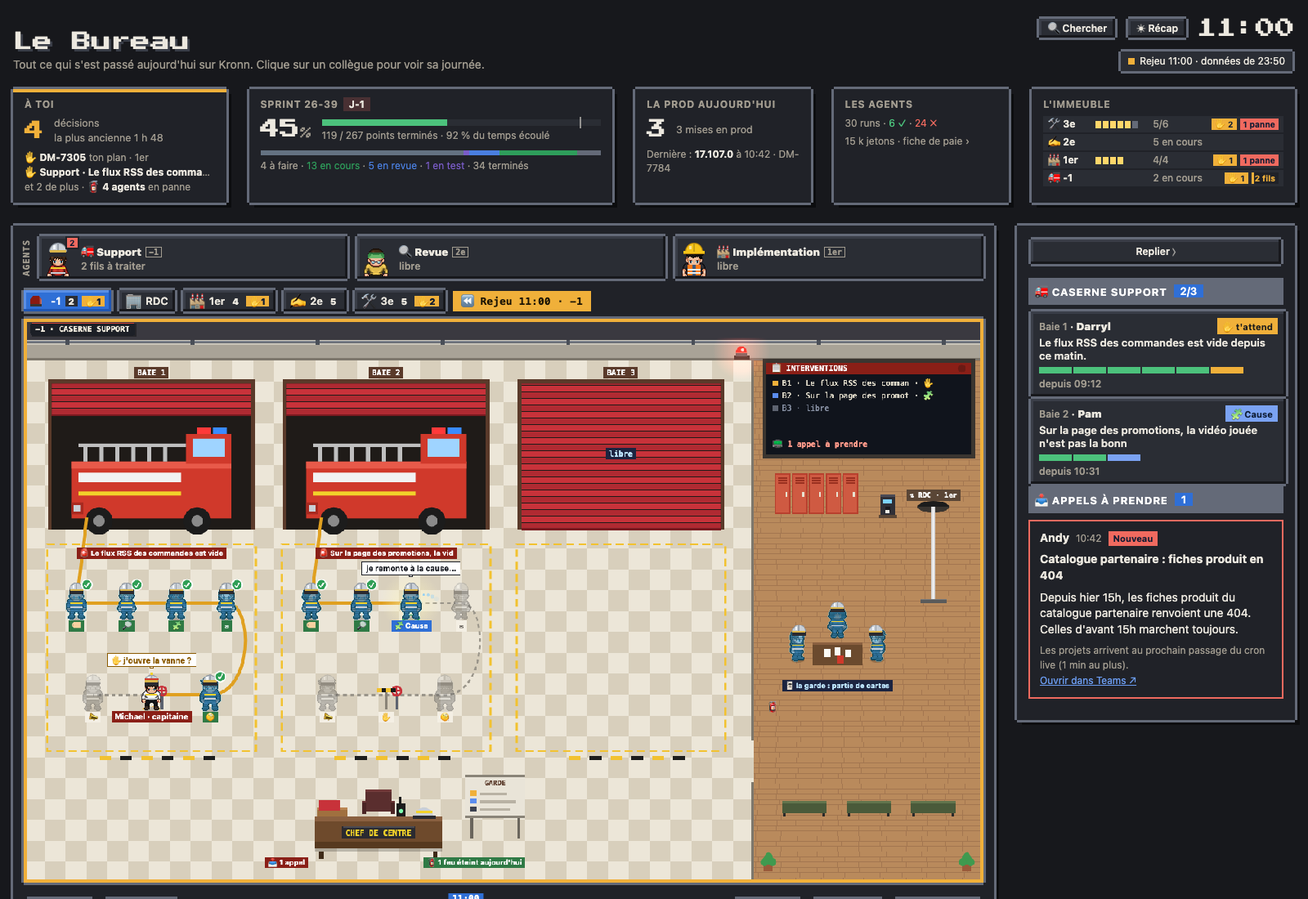
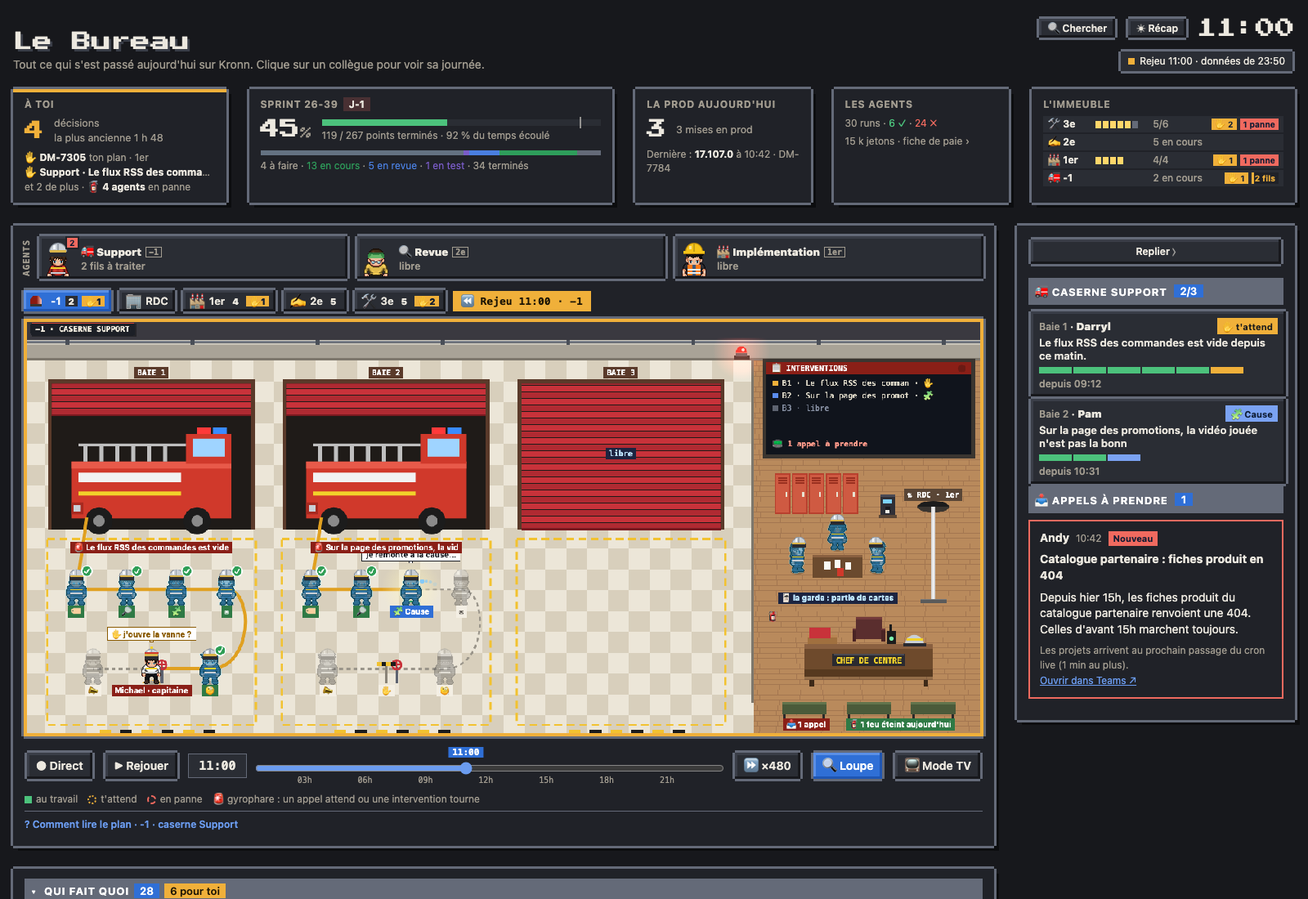
feat(caserne): le -1 sur 20 rangées, le chef de centre dans la salle de garde
Refonte des étages en une rangée (maquette validée) : le -1 passe de 27 à
20 rangées (AT_ROWS[-1]) pour tenir à l'écran. Les zones peintes, les deux
rangs de pompiers et l'allée sous les baies remontent et se resserrent ;
le fond et la nuit suivent la nouvelle hauteur.

Le bureau du chef de centre quitte le carrelage pour la salle de garde,
centré sur le parquet, entre la partie de cartes (remontée sous les
casiers) et les lits de camp ; ses étiquettes restent sous lui. Le tableau
de garde sur pied disparaît. Pour ne traverser ni le bureau ni les lits,
les pompiers longent le mur de droite entre la barre et l'allée, le
capitaine et l'agent d'entretien passent par un couloir (csGuardPath).

Base commune des étages : chaque étage déclare sa hauteur en rangées (AT_ROWS, AT_H suit l'étage
affiché), le plan d'un étage tient dans la fenêtre (planFit, --plan-top) et les toiles de travail suivent
sa hauteur. Lisibilité par étage : le -1 et le 2e (20 rangées) s'affichent à ×0,77 à 1440 × 900, donc
12 px minimum, comme au RDC (lisibilite.json, smoke.py, lisibilite.test.js).

Changed region(s): [[0.0, 0.5564, 0.7812, 1.0], [0.6875, 0.5255, 0.7188, 0.5564], [0.5312, 0.5873, 0.5625, 0.6182]]

diff --git a/page/src/68-caserne.js b/page/src/68-caserne.js
@@ -18,17 +18,22 @@ const CS_ST={ok:['ok','a travaillé'],run:['run','au travail'],err:['err','en pa
 // « Comment lire le plan » au -1 (46-legende.js) ; les postes viennent de CS_POSTES
 const CS_HELP={bar:()=>'<span class="lk"><i data-st="work"></i>au travail</span><span class="lk"><i class="ring ring-dot" data-st="gate"></i>t\'attend</span><span class="lk"><i class="ring ring-dash" data-st="error"></i>en panne</span><span>🚨 gyrophare : un appel attend ou une intervention tourne</span>',
   postes:()=>[['',CS_POSTES]],
-  qui:'<p><b>Pompiers</b> : les agents, en tenue de sapeur-pompier, un par poste.</p><p><b>Le capitaine</b> (le boss), à son bureau, va ouvrir la vanne quand une réponse attend ta décision : ici, ta décision, c\'est la vanne.</p><p>La garde reste le soir et le week-end, sous la veilleuse.</p><p>Un agent en gris pâle : son poste attend, personne n\'y travaille en ce moment (au RDC, la couleur d\'un hologramme dit sa famille, pas son activité).</p>',
+  qui:'<p><b>Pompiers</b> : les agents, en tenue de sapeur-pompier, un par poste.</p><p><b>Le capitaine</b> (le boss), à son bureau dans la salle de garde, va ouvrir la vanne quand une réponse attend ta décision : ici, ta décision, c\'est la vanne.</p><p>La garde reste le soir et le week-end, sous la veilleuse.</p><p>Un agent en gris pâle : son poste attend, personne n\'y travaille en ce moment (au RDC, la couleur d\'un hologramme dit sa famille, pas son activité).</p>',
   ou:'<p><b>Trois baies</b> : trois interventions à la fois, chacune avec son camion.</p><p><b>Le tableau</b> : son voyant clignote à chaque appel. <b>La pile</b> sur le bureau du capitaine : les appels à prendre.</p><p><b>La barre</b> : les pompiers y descendent et y remontent.</p>',
   moments:'<p><b>🚒 Une intervention démarre</b> : le rideau se lève, le camion sort, le tuyau se déroule jusqu\'au Tri.</p><p><b>💧 Le tuyau</b> se remplit jusqu\'au poste qui travaille.</p><p><b>📣 Le camion part</b> : la réponse est postée dans Teams, le camion rentre.</p>'};
-const CS_BAYS=3, CS_BX=[1,12.25,23.5], CS_BW=10.25, CS_DY0=3.1, CS_DY1=10.1, CS_Z0=10.8, CS_Z1=20.7, CS_R1=14.3, CS_R2=18.7;
-const CS_DESK={x:17*AT_TS,y:24.6*AT_TS}, CS_POLE={x:43.6*AT_TS,y0:9*AT_TS,y1:13.4*AT_TS}, CS_TABLE={x:39*AT_TS,y:16*AT_TS};
+// une rangée de baies et l'allée dessous : 20 rangées (AT_ROWS, 68-atelier.js) ; le bureau du chef de centre est dans la salle de
+// garde (le parquet, x ≥ 35 cases), centré, entre la partie de cartes et les lits de camp
+const CS_ROWS=20;AT_ROWS[-1]=CS_ROWS;
+const CS_BAYS=3, CS_BX=[1,12.25,23.5], CS_BW=10.25, CS_DY0=3.1, CS_DY1=10.1, CS_Z0=10.55, CS_Z1=19.45, CS_R1=13.65, CS_R2=17.45;
+const CS_DESK={x:40.5*AT_TS,y:16.35*AT_TS}, CS_POLE={x:43.6*AT_TS,y0:9*AT_TS,y1:13.4*AT_TS}, CS_TABLE={x:39*AT_TS,y:11.8*AT_TS};
+const CS_COT_Y=18.7*AT_TS, CS_LBL_Y=19.55*AT_TS; // les lits de camp sous le bureau, et sous eux les étiquettes du chef
 const CS_DEP_MS=6.5e3; // la fin d'une intervention : le tuyau s'enroule, le camion rentre dans sa baie, le rideau se ferme sur lui
 // arrivée d'une équipe : le rideau se lève, le camion sort de la baie, les pompiers descendent la barre un par un puis
 // courent à leur place par l'allée sous les baies (CS_LANE) ; en partant, ils passent par la machine à café et remontent
-// la barre. Ordres choisis pour que personne ne traverse un autre : premier rang de gauche à droite, puis le second ; au
+// la barre ; dans la salle de garde, ils longent le mur de droite (CS_SIDE) sans traverser le bureau du chef ni les lits.
+// Ordres choisis pour que personne ne traverse un autre : premier rang de gauche à droite, puis le second ; au
 // départ, le second rang d'abord, puis le premier de droite à gauche.
-const CS_LANE=(CS_Z1+.9)*AT_TS, CS_RUN=150, CS_WALK=105, CS_SLIDE=200, CS_GAP=1.1, CS_LEAVE_GAP=1.3;
+const CS_LANE=(CS_Z1+.35)*AT_TS, CS_SIDE=45.2*AT_TS, CS_LEFT=35.8*AT_TS, CS_RUN=150, CS_WALK=105, CS_SLIDE=200, CS_GAP=1.1, CS_LEAVE_GAP=1.3;
 const CS_IN=[0,1,2,3,6,4], CS_OUT=[4,6,3,2,1,0], CS_PX=CS_POLE.x-12, CS_CUP={x:41.4*AT_TS,y:10.6*AT_TS};
 const caserneOn=()=>supportOn();
 // les postes de l'investigation (sous-workflows support_*, CFG.support.postes_wf) : leurs runs ne passent pas au RDC
@@ -118,18 +123,18 @@ function csArrive(b,now){
   const z=CS_G[b], {y0,y1}=CS_POLE;
   return {t0:now,all:0,w:CS_IN.map((j,n)=>{const p=z.pts[j];
     return [j,csWalker(b*7+j,[{x:CS_PX,y:y0,act:'slide'},{x:CS_PX,y:y0,hold:1+n*CS_GAP,act:'slide'},{x:CS_PX,y:y1,v:CS_SLIDE,act:'slide'},
-      {x:CS_PX,y:CS_LANE,v:CS_RUN},{x:p.x,y:CS_LANE,v:CS_RUN},{x:p.x,y:p.y,v:CS_RUN}])];})};
+      {x:CS_SIDE,y:y1,v:CS_RUN},{x:CS_SIDE,y:CS_LANE,v:CS_RUN},{x:p.x,y:CS_LANE,v:CS_RUN},{x:p.x,y:p.y,v:CS_RUN}])];})};
 }
 // départ : de sa place (ou de là où il en est) jusqu'à l'allée, puis la salle de garde ; un café si la réponse est postée,
 // et il remonte la barre
 function csLeave(b,now,posted){
-  const z=CS_G[b], a=CS_MEM.arr[b], {y0,y1}=CS_POLE, X=42.3*AT_TS;
+  const z=CS_G[b], a=CS_MEM.arr[b], {y0,y1}=CS_POLE;
   CS_OUT.forEach((j,n)=>{const aw=a&&a.w.find(x=>x[0]===j), w=aw&&!aw[1].done?aw[1]:null;
     if(w&&w.act==='slide'){if(w.pos.y>y0+1)CS_MEM.walk.push(csWalker(b*7+j,[{...w.pos,act:'climb'},{x:CS_PX,y:y0-4,v:90,act:'climb'}]));return;} // sur la barre : il remonte
     const from=w?w.pos:z.pts[j], hold=.6+n*CS_LEAVE_GAP;
-    const pts=[{...from},{...from,hold},{x:from.x,y:CS_LANE},{x:X,y:CS_LANE}];
-    if(posted)pts.push({x:X,y:CS_CUP.y},{x:CS_CUP.x,y:CS_CUP.y},{x:CS_CUP.x,y:CS_CUP.y,hold:1.6,act:'coffee'},{x:CS_PX,y:CS_CUP.y});
-    else pts.push({x:CS_PX,y:CS_LANE});
+    const pts=[{...from},{...from,hold},{x:from.x,y:CS_LANE},{x:CS_SIDE,y:CS_LANE}];
+    if(posted)pts.push({x:CS_SIDE,y:CS_CUP.y},{x:CS_CUP.x,y:CS_CUP.y},{x:CS_CUP.x,y:CS_CUP.y,hold:1.6,act:'coffee'},{x:CS_PX,y:CS_CUP.y});
+    else pts.push({x:CS_SIDE,y:y1});
     pts.push({x:CS_PX,y:y1},{x:CS_PX,y:y0-4,v:90,act:'climb'});
     CS_MEM.walk.push(csWalker(b*7+j,pts));});
 }
@@ -140,6 +145,14 @@ function csDrawWalker(w,people,now){
   const pole=w.act==='slide'||w.act==='climb';
   people.push([c,pole?()=>{ctx.save();ctx.beginPath();ctx.rect(x-30,CS_POLE.y0+2,60,400);ctx.clip();}:null,pole,()=>{csHelmet(ctx,x,y,dir,false);if(pole)ctx.restore();
     if(w.act==='coffee')E('☕',x+12,y-46,13);}]);
+}
+// chemin entre deux points par l'allée ; un point de la salle de garde la rejoint par un passage le long d'un mur (X : CS_LEFT,
+// le muret, pour le capitaine ; CS_SIDE, le mur de droite, pour l'agent d'entretien) : personne ne traverse le bureau ni les lits
+function csGuardPath(a,b,X){
+  const inGuard=p=>p.x>=35*AT_TS&&p.y<CS_LANE-.5*AT_TS, out=[{...a}];
+  if(inGuard(a))out.push({x:X,y:a.y},{x:X,y:CS_LANE});else out.push({x:a.x,y:CS_LANE});
+  if(inGuard(b))out.push({x:X,y:CS_LANE},{x:X,y:b.y});else out.push({x:b.x,y:CS_LANE});
+  out.push({...b});return out;
 }
 const csWaiting=()=>{const ids=new Set(CS_MEM.slots);return csActive().filter(x=>!ids.has(x.t.id)).length;};
 const csTitle=t=>t.subject||String(t.text||'').split('\n')[0].slice(0,60);
@@ -152,11 +165,11 @@ function csGeo(b){
 const CS_G=[0,1,2].map(csGeo);
 // ---------- décor ----------
 function csBackground(){ // sous-sol : murs de béton, tuyaux au plafond, sol de garage devant les baies, parquet de la salle de garde
-  const c=document.createElement('canvas');c.width=AT_W;c.height=AT_H;const g=c.getContext('2d'), T=AT_TS;
-  for(let y=0;y<27;y++)for(let x=0;x<46;x++)drawFloor(g,x,y,x>=35?'wood':'tiles');
+  const c=document.createElement('canvas'), H_=CS_ROWS*AT_TS;c.width=AT_W;c.height=H_;const g=c.getContext('2d'), T=AT_TS;
+  for(let y=0;y<CS_ROWS;y++)for(let x=0;x<46;x++)drawFloor(g,x,y,x>=35?'wood':'tiles');
   R(g,0,0,AT_W,T,'#3a3940');R(g,0,T,AT_W,8,'#c9c4b8');R(g,0,T+8,AT_W,24,'#a9a397');R(g,0,T+28,AT_W,4,'#7d776c');
   R(g,0,T+2,AT_W,4,'#6a6f78');R(g,0,T+2,AT_W,1,'#8a909a');for(let x=2;x<46;x+=6)R(g,x*T,T,6,8,'#4a4f58'); // tuyaux et colliers
-  R(g,35*T-4,2*T,4,CS_LANE-1.4*T-2*T,'#7d776c');R(g,35*T-4,CS_LANE+.6*T,4,27*T-CS_LANE-.6*T,'#7d776c'); // la salle de garde, séparée par un muret ouvert sur l'allée
+  R(g,35*T-4,2*T,4,CS_LANE-1.4*T-2*T,'#7d776c');if(CS_LANE+.6*T<H_)R(g,35*T-4,CS_LANE+.6*T,4,H_-CS_LANE-.6*T,'#7d776c'); // la salle de garde, séparée par un muret ouvert sur l'allée
   for(let b=0;b<CS_BAYS;b++){const z=CS_G[b];g.save();g.strokeStyle='#f2c230';g.lineWidth=3;g.setLineDash([12,7]);g.strokeRect(z.x0+4,CS_Z0*T,z.w-8,(CS_Z1-CS_Z0)*T);g.restore();
     for(let k=0;k<6;k++)R(g,z.cx-2.5*T+k*T,(CS_Z1+.25)*T,T*.55,6,k%2?'#1c1c1c':'#f2c230');} // bande devant la baie
   return c;
@@ -210,7 +223,7 @@ function csHose(z,st,L,fd){ // du camion au premier pompier, puis de main en mai
 }
 function csValve(x,y,open,now){R(ctx,x+14,y-24,4,24,'#5d6370');ctx.strokeStyle=open?'#e0a020':'#c8323a';ctx.lineWidth=3;ctx.beginPath();ctx.arc(x+16,y-28,7,0,7);ctx.stroke();
   R(ctx,x+15,y-35,2,14,ctx.strokeStyle);R(ctx,x+9,y-29,14,2,ctx.strokeStyle);}
-const csPostePill=(p,s,x,y)=>atPill(atPosteLbl(p,['run','err','gate'].includes(s)),x,y,{run:'#2f6fd6',ok:'#2f7a45',err:'#a8323a',gate:WAIT_BG}[s]||'#f4efe4',s==='gate'?WAIT_INK:s?'#fff':'#3a3530','bold 11px system-ui,sans-serif');
+const csPostePill=(p,s,x,y)=>atPill(atPosteLbl(p,['run','err','gate'].includes(s)),x,y,{run:'#2f6fd6',ok:'#2f7a45',err:'#a8323a',gate:WAIT_BG}[s]||'#f4efe4',s==='gate'?WAIT_INK:s?'#fff':'#3a3530','bold 12px system-ui,sans-serif');
 // ---------- une baie ----------
 const csEase=u=>u<=0?0:u>=1?1:u*u*(3-2*u), csClamp=u=>u<0?0:u>1?1:u;
 function csBay(slot,b,now,dt,people){
@@ -243,7 +256,7 @@ function csBay(slot,b,now,dt,people){
     if(a.all){const s=(now-a.all)/1000;L=s*900;fd=csClamp((s-1.4)/.8);if(s>3)M.arr[b]=null;}else{L=0;fd=0;}}
   if(L>0)csHose(z,st,L,fd);
   const cur=csCur(st);
-  if(fa>0)csLate(people,()=>{ctx.save();ctx.globalAlpha=fa;atPill('🚨 '+csTitle(t).slice(0,34),z.cx,(CS_Z0+.55)*T,k==='failed'?'#a8323a':'#8a1f17','#fff','bold 11px system-ui,sans-serif');ctx.restore();});
+  if(fa>0)csLate(people,()=>{ctx.save();ctx.globalAlpha=fa;atPill('🚨 '+csTitle(t).slice(0,34),z.cx,(CS_Z0+.55)*T,k==='failed'?'#a8323a':'#8a1f17','#fff','bold 12px system-ui,sans-serif');ctx.restore();});
   CS_POSTES.forEach((p,j)=>{const {x,y}=z.pts[j], s=st[p.k]||'';
     if(p.gate){if(fv<=0)return;ctx.save();ctx.globalAlpha=fv;csValve(x,y,s==='ok',now);
       const boss=k==='gate'&&!!chars.find(c=>c.boss);
@@ -266,7 +279,7 @@ function csBay(slot,b,now,dt,people){
       csPostePill(p,s,x,y+16);ctx.restore();}]);
     atHitCs('agent',x-16,y-56,32,74,{b,k:p.k});
   });
-  if(k==='failed')csLate(people,()=>atPill('🧯 en panne : relance l\'investigation',z.cx,(CS_Z1-.4)*T,'#a8323a','#fff','bold 11px system-ui,sans-serif'));
+  if(k==='failed')csLate(people,()=>atPill('🧯 en panne : relance l\'investigation',z.cx,(CS_Z1-.4)*T,'#a8323a','#fff','bold 12px system-ui,sans-serif'));
   atHitCs('bay',z.x0,d.y,z.w,(CS_Z1-CS_DY0)*T,{b});
 }
 function csLate(people,f,y){people.push([{pos:{x:0,y:y==null?1e6:y}},null,false,f]);}
@@ -291,19 +304,19 @@ function csCot(x,y,sleeper,k,now){ // lit de camp, et un pompier qui dort (casqu
   const sk=['#d8a77c','#f1c9a5','#7a4a2e','#e8b98f','#b07a55'][k%5];R(ctx,x-30,y-14,14,10,'#f2efe6');ctx.fillStyle=sk;ctx.beginPath();ctx.arc(x-22,y-14,6,0,7);ctx.fill();
   R(ctx,x-14,y-16,44,12,'#2b2f45');R(ctx,x-14,y-16,44,3,'#3b4060');
   ctx.fillStyle='#c9cfd6';ctx.beginPath();ctx.arc(x+40,y+6,6,Math.PI,0);ctx.fill();
-  if(!REDUCED_MOTION){const f=((now/1400)+k*.3)%1;ctx.globalAlpha=1-f;atTxt('z',x-18+f*10,y-26-f*14,'#e8e2d0','bold '+(9+f*5|0)+'px system-ui');ctx.globalAlpha=1;}
+  if(!REDUCED_MOTION){const f=((now/1400)+k*.3)%1;ctx.globalAlpha=1-f;atTxt('z',x-18+f*10,y-26-f*14,'#e8e2d0','bold '+(12+f*4|0)+'px system-ui');ctx.globalAlpha=1;}
 }
 function csGuard(now,people){ // la garde : aux cartes le jour, sur les lits de camp le soir et le week-end
   const T=AT_TS, {x,y}=CS_TABLE, open=atOpen();
-  csLockers(36*T,7.4*T,5);atCoffee(41.4*T,9.4*T);E('🧯',35.9*T,18.6*T,14);atPlant(45.2*T,26.4*T);atPlant(35.7*T,26.4*T);
-  for(let k=0;k<3;k++)csCot((37.4+k*3.1)*T,23.4*T,!open,k,now);
+  csLockers(36*T,7.4*T,5);atCoffee(41.4*T,9.4*T);E('🧯',35.9*T,14.3*T,14);
+  for(let k=0;k<3;k++)csCot((37.4+k*3.1)*T,CS_COT_Y,!open,k,now);
   if(open){R(ctx,x-1.2*T,y-.5*T,2.4*T,1.1*T,'#6b4a2e');R(ctx,x-1.2*T,y-.5*T,2.4*T,4,'#8a6040');
     [[-20,-6],[-4,-8],[12,-5],[0,4]].forEach(([dx,dy],j)=>R(ctx,x+dx,y+dy,9,12,j===3?'#d0392b':'#fbfbf6'));
     [[-1.9,.3,'right'],[1.9,.3,'left'],[0,-.8,'down']].forEach(([dx,dy,dir],j)=>{const c=csPompier(30+j,x+dx*T,y+dy*T,'idle',dir);
       people.push([c,null,false,()=>csHelmet(ctx,c.pos.x,c.pos.y,dir,false)]);atHitCs('guard',c.pos.x-16,c.pos.y-56,32,60,{});});
-    csLate(people,()=>atPill('🃏 la garde : partie de cartes',x,y+1.7*T,'#1c2440','#bfe6ff','bold 11px system-ui,sans-serif'),y+1);}
-  else csLate(people,()=>atPill('🌙 la garde dort, prête à partir',40.5*T,25.4*T,'#1c2440','#bfe6ff','bold 11px system-ui,sans-serif'),25*T);
-  csPole();csLate(people,()=>atPill('⇅ RDC · 1er',CS_POLE.x,CS_POLE.y0-14,'#5a4636','#fff','bold 11px ui-monospace,Menlo,monospace'),CS_POLE.y0);
+    csLate(people,()=>atPill('🃏 la garde : partie de cartes',x,y+1.7*T,'#1c2440','#bfe6ff','bold 12px system-ui,sans-serif'),y+1);}
+  else csLate(people,()=>atPill('🌙 la garde dort, prête à partir',x,y+1.7*T,'#1c2440','#bfe6ff','bold 12px system-ui,sans-serif'),y+1);
+  csPole();csLate(people,()=>atPill('⇅ RDC · 1er',CS_POLE.x,CS_POLE.y0-14,'#5a4636','#fff','bold 12px ui-monospace,Menlo,monospace'),CS_POLE.y0);
 }
 function csWalkers(now,dt,people){for(const w of CS_MEM.walk){if(csStepW(w,dt))w.gone=true;else csDrawWalker(w,people,now);}}
 // le gyrophare de la caserne, au mur entre les baies et la salle de garde (et sur l'onglet du -1) : il tourne tant qu'un
@@ -325,13 +338,11 @@ function csBeacon(now){
   ctx.restore();
 }
 // ---------- le capitaine (le boss) : à son bureau de chef de centre, à la vanne quand une réponse attend sa validation ----------
-// Vu de face derrière son bureau (comme le boss au 1er) : plaque « CHEF DE CENTRE », fauteuil rouge, radio, casque posé, corbeille
-// d'appels ; à côté, le tableau de garde sur pied, un voyant par baie. Le meuble est agrandi (CS_K) ; le capitaine reste à
-// l'échelle des autres personnages. CS_DESK : ses pieds à son poste.
-const CS_K=1.75, CS_KB=1.35, CS_BACK=16; // échelle du bureau, du tableau de garde ; le capitaine se tient CS_BACK px derrière le bureau
+// Vu de face derrière son bureau (comme le boss au 1er), dans la salle de garde : plaque « CHEF DE CENTRE », fauteuil rouge,
+// radio, casque posé, corbeille d'appels. Le meuble est agrandi (CS_K) ; le capitaine reste à l'échelle des autres personnages.
+// CS_DESK : ses pieds à son poste.
+const CS_K=1.75, CS_BACK=16; // échelle du bureau ; le capitaine se tient CS_BACK px derrière le bureau
 const csCaptainSprite=b=>bossFloorSprite(b,'captain_sprite');
-function csBayCol(slots,b,now){const s=slots[b];if(!s)return '#3d4250';if(s.dep)return '#3fbf6a';const k=s.s.k;
-  return k==='gate'?(waitOn(now)?WAIT_BG:WAIT_DIM):k==='failed'?'#e0614f':'#5b8def';}
 function csDesk(slots,now,calls,open){ // le bureau, devant le capitaine : dessiné après lui
   const {x,y:F}=CS_DESK, K=CS_K, q=(dx,dy,w,h,c)=>R(ctx,Math.round(x+dx*K),Math.round(F+dy*K),Math.round(w*K),Math.round(h*K),c);
   q(-56,-12,112,24,'#6e4a2c');q(-56,-14,112,4,'#8a6040');q(-56,8,112,6,'#56391f');q(-56,14,112,3,'rgba(0,0,0,.2)');
@@ -344,30 +355,24 @@ function csDesk(slots,now,calls,open){ // le bureau, devant le capitaine : dessi
   q(16,-14-12,8,12,'#1c1c1c');q(18,-14-17,1.5,5,'#1c1c1c'); // la radio
   ctx.fillStyle=open?'#7dffb0':'#3d4250';ctx.beginPath();ctx.arc(x+20*K,F-19*K,1.8*K,0,7);ctx.fill();
 }
-function csGarde(slots,now){ // le tableau de garde sur pied, à droite du bureau : un voyant par baie
-  const K=CS_KB, bx=CS_DESK.x+5.6*AT_TS, base=CS_DESK.y+10, q=(dx,dy,w,h,c)=>R(ctx,Math.round(bx+dx*K),Math.round(base+dy*K),Math.round(w*K),Math.round(h*K),c);
-  q(-28,-24,3,24,'#6a655c');q(25,-24,3,24,'#6a655c'); // les pieds
-  q(-34,-73,68,46,'#e9e4d8');q(-34,-73,68,3,'#8a8478');q(-34,-27,68,3,'#8a8478');
-  ctx.font='bold '+Math.round(8*K)+'px ui-monospace,Menlo,monospace';ctx.fillStyle='#5a3a2a';ctx.textAlign='center';ctx.fillText('GARDE',bx,Math.round(base-61*K));ctx.textAlign='left';
-  for(let b=0;b<3;b++){q(-28,-55+b*9,7,6,csBayCol(slots,b,now));q(-17,-53+b*9,30+(b*11)%18,3,'#b9b2a4');}
-  atHitCs('garde',Math.round(bx-34*K),Math.round(base-73*K),Math.round(68*K),Math.round(73*K),{});
-}
 function csCaptain(slots,now,dt,people){
   const T=AT_TS, boss=chars.find(c=>c.boss), d=CS_DESK, F=d.y, K=CS_K, open=atOpen(), calls=csCalls();
-  csGarde(slots,now);
   if(boss){const cx=d.x, f=F-CS_BACK;R(ctx,cx-20,f-50,40,34,'#5a2e2e');R(ctx,cx-20,f-50,40,4,'#723a3a');R(ctx,cx-25,f-32,6,20,'#4a2424');R(ctx,cx+19,f-32,6,20,'#4a2424'); // le fauteuil
     R(ctx,cx-25,f-32,6,2,'#6a3434');R(ctx,cx+19,f-32,6,2,'#6a3434');}
   csLate(people,()=>csDesk(slots,now,calls,open),F+2);
-  csLate(people,()=>{atPill('📥 '+(calls.length?plural(calls.length,'appel','appels'):'aucun appel'),d.x-4.4*T,F+1.55*T,calls.length?'#8a1f17':'#5b6070','#fff','bold 11px system-ui,sans-serif');
-    const n=csDoneToday();atPill('🧯 '+(n?plural(n,'feu éteint','feux éteints')+' aujourd\'hui':'aucun feu aujourd\'hui'),d.x+4.6*T,F+1.55*T,n?'#2f7a45':'#5b6070','#fff','bold 11px system-ui,sans-serif');},F+1.6*T);
+  // ses deux étiquettes, sous les lits de camp, côte à côte et centrées ensemble sous le bureau
+  csLate(people,()=>{const n=csDoneToday(), font='bold 12px system-ui,sans-serif', gap=.6*T;
+    const a='📥 '+(calls.length?plural(calls.length,'appel','appels'):'aucun appel'), b='🧯 '+(n?plural(n,'feu éteint','feux éteints')+' aujourd\'hui':'aucun feu aujourd\'hui');
+    ctx.font=font;const wa=ctx.measureText(a).width+16, wb=ctx.measureText(b).width+16, x0=d.x-(wa+gap+wb)/2;
+    atPill(a,x0+wa/2,CS_LBL_Y,calls.length?'#8a1f17':'#5b6070','#fff',font);atPill(b,x0+wa+gap+wb/2,CS_LBL_Y,n?'#2f7a45':'#5b6070','#fff',font);},CS_LBL_Y);
   atHitCs('calls',Math.round(d.x-56*K),Math.round(F-30*K),Math.round(30*K),Math.round(18*K),{});
   if(!boss)return; // le soir et le week-end, il reste, comme le boss au 1er (sous l'éclairage réduit)
   const gi=slots.findIndex(s=>s&&!s.dep&&s.s.k==='gate'), home={x:d.x,y:F-CS_BACK}, target=gi<0?null:gi;
   let m=CS_MEM.boss;
-  // vers la vanne : il remonte derrière son bureau, longe les baies, puis descend à la vanne
-  const path=i=>{const z=CS_G[i], v=z.pts[5];return [{x:m?m.walk.pos.x:home.x,y:m?m.walk.pos.y:home.y},{x:m?m.walk.pos.x:home.x,y:(CS_Z1+.9)*T},{x:v.x,y:(CS_Z1+.9)*T},{x:v.x,y:v.y}];};
+  // vers la vanne : il passe derrière son bureau jusqu'au muret (CS_LEFT), descend à l'allée, la longe sous les baies, puis
+  // remonte à la vanne ; au retour, le même chemin à l'envers
   if(!m||REDUCED_MOTION&&m.target!==target){m=CS_MEM.boss={target,walk:atWalker([target==null?home:CS_G[target].pts[5]])};}
-  if(m.target!==target){m.target=target;m.walk=atWalker(target==null?[{...m.walk.pos},{x:m.walk.pos.x,y:(CS_Z1+.9)*T},{x:home.x,y:(CS_Z1+.9)*T},home]:path(target),90);}
+  if(m.target!==target){m.target=target;m.walk=atWalker(csGuardPath(m.walk.pos,target==null?home:CS_G[target].pts[5],CS_LEFT),90);}
   const arrived=atStep(m.walk,dt), p=m.walk.pos, dir=arrived?'down':m.walk.dir, home_=arrived&&target==null;
   // son dessin de capitaine : captain_sprite de la personne du boss (roster du pack) s'il est réglé et embarqué, sinon le sien
   // avec le casque du chef ; il garde son nom, sa fiche et son rôle
@@ -385,9 +390,9 @@ function csCaptain(slots,now,dt,people){
 const CS_NIGHT={};
 function csNight(slots,people,now){
   const T_=AT_TS, open=atOpen(), walk=(CS_MEM.walk||[]).filter(w=>w.pos).map(w=>w.pos), lit=[...CS_LIT,...walk];
-  const rooms=CS_G.map((z,b)=>[CS_BX[b],CS_DY1,CS_BX[b]+CS_BW-1,Math.floor(CS_Z1),!!slots[b]]).concat([[35,2,45,26,open]]);
+  const rooms=CS_G.map((z,b)=>[CS_BX[b],CS_DY1,CS_BX[b]+CS_BW-1,Math.floor(CS_Z1),!!slots[b]]).concat([[35,2,45,CS_ROWS-1,open]]);
   floorNight(CS_NIGHT,{rooms,closed:!open,track:lit,spots:[...floorPeopleSpots(people),...lit.map(q=>({x:q.x,y:q.y-26,r:42,a:.95})),
-    floorBossLamp(CS_DESK.x,CS_DESK.y),{x:40.5*T_,y:23.4*T_,r:2.2*T_,a:.5,c:'rgba(255,190,120,.12)'}, // la veilleuse de la garde
+    floorBossLamp(CS_DESK.x,CS_DESK.y),{x:40.5*T_,y:CS_COT_Y,r:2.2*T_,a:.5,c:'rgba(255,190,120,.12)'}, // la veilleuse de la garde
     {x:CS_POLE.x,y:CS_POLE.y1-1.2*T_,r:2.2*T_,a:.6}]},now); // la barre
 }
 // ---------- le ménage du soir au -1 : après le 1er (atCleanVisit, 68-atelier.js), l'agent d'entretien descend la barre ----------
@@ -404,7 +409,7 @@ function csCleanStops(){
 function csCleanerAt(c,t){
   const v=csCleanVisit(c,t);if(!v||t<v.s||t>=v.e)return null;
   const st=csCleanStops(), n=st.length-1, k=(t-v.s)/(v.e-v.s)*n, j=Math.min(n-1,Math.floor(k)), f=k-j, a=st[j].p, b=st[j+1].p;
-  if(f<.25){const q=atAlong([a,{x:a.x,y:CS_LANE},{x:b.x,y:CS_LANE},b],f/.25);return {x:q.x,y:q.y,dir:q.dir,moving:true,stop:st[j+1],v};}
+  if(f<.25){const q=atAlong(csGuardPath(a,b,CS_SIDE),f/.25);return {x:q.x,y:q.y,dir:q.dir,moving:true,stop:st[j+1],v};}
   const sw=st[j+1].sweep;if(!sw)return null; // remonté par la barre
   const q=atAlong(sw,(f-.25)/.75);return {x:q.x,y:q.y,dir:q.dir,moving:false,sweeping:true,stop:st[j+1],v};
 }
@@ -485,8 +490,7 @@ function caserneHover(e){
   else if(h&&h.kind==='captain')s=(chars.find(c=>c.boss)||{}).name+' · capitaine : ouvre la vanne (✋) quand une réponse attend sa validation ; clic : sa fiche, comme au RDC';
   else if(h&&h.kind==='calls'){const n=csCalls().length;s=n?plural(n,'appel','appels')+' à prendre : clic pour les voir':'Aucun appel à prendre';}
   else if(h&&h.kind==='board')s='Le tableau des interventions';
-  else if(h&&h.kind==='garde')s='Le tableau de garde : un voyant par baie (bleu : au travail, jaune : t\'attend, rouge : en panne, vert : feu éteint, le camion rentre)';
-  cv.style.cursor=h&&h.kind!=='pole'&&h.kind!=='guard'&&h.kind!=='board'&&h.kind!=='garde'?'pointer':'default';
+  cv.style.cursor=h&&h.kind!=='pole'&&h.kind!=='guard'&&h.kind!=='board'?'pointer':'default';
   if(s){tip.style.display='block';tip.style.left=e.clientX+'px';tip.style.top=e.clientY+'px';tip.textContent=s;}else tip.style.display='none';
 }
 // ---------- panneau : les baies, les appels, la fiche d'une intervention ----------

diff --git a/tests/caserne.test.js b/tests/caserne.test.js
@@ -252,7 +252,7 @@ test('captain_sprite du roster : seul le boss le porte', () => {
   assert.equal(J('CAST.filter(c => "captain_sprite" in c).length'), 0, 'le pack de démo ne le règle pas');
 });
 
-test('le bureau du chef de centre : le capitaine de face derrière son bureau, le tableau de garde à côté ; il part, le bureau reste', () => {
+test('le bureau du chef de centre : le capitaine de face derrière son bureau ; il part, le bureau reste', () => {
   const {p, J} = page();
   p.run(`SUPPORT = supportDemo(); setFloor(-1); var __b = chars.find(c => c.boss), __o = csSlots, __d = drawChar, __dk = csDesk, __txt = [], __order = [];
     csSlots = n => __o(n).map(s => s && s.s && s.s.k === 'gate' ? {...s, s: {...s.s, k: 'run'}} : s); CS_MEM.boss = null;
@@ -262,10 +262,13 @@ test('le bureau du chef de centre : le capitaine de face derrière son bureau, l
     for (let n = 0; n < 20; n++) renderCaserne(1000 + n * 100); __order = []; __txt = []; renderCaserne(3100);`);
   assert.deepEqual(J('CS_MEM.boss.walk.pos'), J('({x: CS_DESK.x, y: CS_DESK.y - CS_BACK})'), 'chez lui : derrière son bureau');
   assert.deepEqual(J('__order'), [['capitaine', 'down'], ['bureau']], 'de face, et le bureau dessiné devant lui');
-  assert.ok(J('__txt.includes("CHEF DE CENTRE") && __txt.includes("GARDE")'), 'la plaque et le tableau de garde');
-  assert.ok(J('CS_HITS.some(h => h.kind === "calls") && CS_HITS.some(h => h.kind === "garde") && CS_HITS.some(h => h.kind === "captain")'), 'corbeille d\'appels, tableau et capitaine cliquables');
+  assert.ok(J('__txt.includes("CHEF DE CENTRE") && !__txt.includes("GARDE")'), 'la plaque ; plus de tableau de garde à côté');
+  assert.ok(J('CS_HITS.some(h => h.kind === "calls") && CS_HITS.some(h => h.kind === "captain") && !CS_HITS.some(h => h.kind === "garde")'), 'corbeille d\'appels et capitaine cliquables');
   p.run(`csSlots = __o; CS_MEM.boss = null; for (let n = 0; n < 60; n++) renderCaserne(4000 + n * 100); __order = []; renderCaserne(10100);`);
-  assert.ok(J('CS_MEM.boss.walk.pos.y < CS_DESK.y - CS_BACK'), 'une réponse attend : il est parti vers la vanne, par le haut');
+  assert.ok(J('CS_MEM.boss.walk.pos.x < CS_DESK.x'), 'une réponse attend : il est parti vers la vanne');
+  // par le passage derrière son bureau et le long du muret : rien entre son bureau et l'allée ne le fait traverser un meuble
+  assert.ok(J(`(() => { const w = csGuardPath({x: CS_DESK.x, y: CS_DESK.y - CS_BACK}, CS_G[0].pts[5], CS_LEFT);
+    return w[1].y === w[0].y && w[1].x === CS_LEFT && w[2].x === CS_LEFT && w[2].y === CS_LANE; })()`), 'derrière le bureau, puis le long du muret');
   assert.ok(J('__order.some(o => o[0] === "bureau")'), 'le bureau reste, vide');
   p.run('csSlots = __o; drawChar = __d; csDesk = __dk; ctx.fillText = __ft;');
 });
@@ -290,8 +293,9 @@ test("nouvelle intervention : le rideau se lève, le camion sort, les pompiers d
   const holds = J('CS_MEM.arr[1].w.map(([j, w]) => w.pts[0].hold)');
   assert.ok(holds.every((h, i) => !i || h > holds[i - 1]), 'un par un');
   assert.ok(J('CS_MEM.arr[1].w.every(([j, w]) => w.pts.some(q => q.y === CS_LANE))'));
-  // personne ne passe dans une autre baie : au-dessus de l'allée, chacun reste dans la colonne de sa place
-  assert.ok(J(`CS_MEM.arr[1].w.every(([j, w]) => w.pts.filter(q => q.y < CS_LANE && q.x !== CS_PX).every(q => q.x === CS_G[1].pts[j].x))`));
+  // personne ne passe dans une autre baie : au-dessus de l'allée, chacun reste dans la colonne de sa place (ou, dans la salle
+  // de garde, le long du mur de droite, sans traverser le bureau du chef ni les lits de camp)
+  assert.ok(J(`CS_MEM.arr[1].w.every(([j, w]) => w.pts.filter(q => q.y < CS_LANE && q.x !== CS_PX && q.x !== CS_SIDE).every(q => q.x === CS_G[1].pts[j].x))`));
   play(p, 1200, 2800);
   assert.ok(J('CS_MEM.door[1]') > 0.99, 'rideau levé en 1,6 s');
   play(p, 2700, 40000);
@@ -373,4 +377,26 @@ test('« Qui fait quoi » du RDC : un bloc du -1, une carte par baie occupée (a
   assert.ok(rows.length > 0, 'des baies occupées dans la démo');
   assert.ok(rows.every(x => typeof x.b === 'number' && x.what), 'baie et sujet');
   assert.match(J('csWhoHtml(T)'), /🚒 -1 caserne <span class="cnt">\d+<\/span>[\s\S]*data-cs-thread=/);
+});
+
+test('une seule rangée : le -1 fait 20 rangées ; le bureau du chef de centre est dans la salle de garde, centré sur le parquet', () => {
+  const {p, J} = page();
+  p.run('SUPPORT = supportDemo(); setFloor(-1); renderCaserne(1000);');
+  assert.equal(J('AT_ROWS[-1]'), 20);
+  assert.deepEqual(J('[cv.width, cv.height]'), [46 * 32, 20 * 32], 'la toile suit la hauteur de l\'étage');
+  assert.equal(J('CS_BG.height'), 20 * 32, 'le fond aussi');
+  // le parquet : x ≥ 35 cases (csBackground) jusqu'au bord droit ; le bureau (112 px × CS_K) y tient en entier, centré
+  const d = J('({x: CS_DESK.x, y: CS_DESK.y, half: 56 * CS_K, x0: 35 * AT_TS, x1: AT_W})');
+  assert.equal(d.x, (d.x0 + d.x1) / 2, 'centré sur le parquet');
+  assert.ok(d.x - d.half >= d.x0 && d.x + d.half <= d.x1, 'posé sur le parquet, pas de carrelage sous lui');
+  assert.ok(d.y > J('CS_TABLE.y') && d.y < J('CS_COT_Y'), 'sous la partie de cartes, au-dessus des lits de camp');
+  assert.ok(J('CS_LBL_Y > CS_COT_Y && CS_LBL_Y < AT_H'), 'ses étiquettes sous lui, dans la toile');
+  // tout tient dans la toile : l'allée, les zones peintes, les lits
+  assert.ok(J('CS_LANE < AT_H && CS_Z1 * AT_TS < CS_LANE && CS_R2 < CS_Z1'));
+});
+
+test('lisibilité au -1 : 20 rangées, le plan affiché à ×0,778 à 1440 × 900 ; aucun texte du plan sous 12 px (9 px affichés)', () => {
+  const src = require('node:fs').readFileSync(require('node:path').join(__dirname, '..', 'page', 'src', '68-caserne.js'), 'utf8');
+  const small = [...src.matchAll(/\b(\d+)px (?:ui-monospace|system-ui|sans-serif|monospace)/g)].filter(m => +m[1] < 12).map(m => m[0]);
+  assert.deepEqual(small, []);
 });

diff --git a/page/src/68-atelier.js b/page/src/68-atelier.js
@@ -38,7 +38,12 @@ const AT_HELP={bar:()=>legSwatches(AT_ST)+'<span>🧯 fumée : poste en panne</s
     '<p><b>Le grand tableau</b> de l\'orchestrateur : le poste, le tour et les jetons de chaque bureau.</p><p><b>L\'entrepôt</b> : les tickets en attente, et ceux en panne sur des palettes, à relancer.</p>',
   moments:'<p><b>✋ Une gate</b> : ton plan (avec ce que j\'ai compris), la relecture de la PR ; le boss va à la porte.</p><p><b>🚨 L\'escalade</b> : après trois tours, la chaîne demande un humain (gyrophare).</p>'+
     '<p><b>↩ Retour au code</b> : un contrôle a bloqué, le carton recule.</p><p><b>🧯 Une panne</b> : un poste a échoué, le pompier arrive.</p>'};
-const AT_TS=32, AT_W=46*AT_TS, AT_H=27*AT_TS;
+const AT_TS=32, AT_W=46*AT_TS;
+// hauteur de chaque étage en cases (une rangée de pièces et un couloir) : chaque 68-*.js y pose la sienne ; AT_H suit l'étage
+// affiché (setFloor), 27 cases par défaut (les Combles)
+const AT_ROWS={};
+let AT_H=27*AT_TS;
+const atRows=f=>AT_ROWS[f]||27;
 let FLOOR=0, ATELIER=null, ATSEL=null;
 try{const f=+localStorage.getItem('bureau:floor');FLOOR=f===1||f===-1||f===2||f===3||f===4?f:0;}catch(e){FLOOR=0;} // -1 : la caserne Support (68-caserne.js) ; 3 : les retours de PR (68-retours.js)
 function readAtelier(src){
@@ -312,6 +317,8 @@ const floorsOn=()=>[...(retoursOn()?[3]:[]),...(redactionOn()?[2]:[]),...(atelie
 function setFloor(f){
   FLOOR=f===4&&comblesOn()?4:f===1&&atelierOn()?1:f===-1&&caserneOn()?-1:f===3&&retoursOn()?3:f===2&&redactionOn()?2:0;ATSEL=null;AT_PICK=null;if(FLOOR){SEL_BACK=[];if(!(byKey[sel]&&byKey[sel].boss))sel=null;} // hors du RDC, seul le boss garde sa fiche du RDC (drawAtelierSide, drawCaserneSide)
   try{localStorage.setItem('bureau:floor',String(FLOOR));}catch(e){}
+  if(FLOOR)AT_H=atRows(FLOOR)*AT_TS;
+  document.body.classList.toggle('plan-etage',FLOOR!==0&&FLOOR!==4);planFit();
   if(FLOOR){cv.width=AT_W;cv.height=AT_H;ctx.imageSmoothingEnabled=false;document.documentElement.style.setProperty('--plan-ratio',String(AT_W/AT_H));}
   else{cv.width=W;cv.height=H;ctx.imageSmoothingEnabled=false;document.documentElement.style.setProperty('--plan-ratio',String(W/H));}
   // pas sizeCanvas() : il redimensionne aussi bg, le décor du RDC cuit une fois, et redimensionner une toile l'efface
@@ -322,6 +329,11 @@ function setFloor(f){
   sideForFloor(FLOOR);atelierTabs();renderSide(true);if(TV)updateTv(true); // 75-tv.js : la colonne et le bouton d'étage
   if(typeof renderLegend==='function')renderLegend(); // 46-legende.js : la légende et « Comment lire le plan » de cet étage, ses scènes
 }
+// le plan d'un étage tient dans la fenêtre : sa largeur suit la place réelle sous l'en-tête (--plan-top, styles.css), pas une
+// marge fixe ; recalculé en changeant d'étage et quand la fenêtre change de taille
+function planFit(){requestAnimationFrame(()=>{const r=cv.getBoundingClientRect();
+  document.documentElement.style.setProperty('--plan-top',Math.max(0,Math.round(r.top+scrollY))+12+'px');});}
+addEventListener('resize',()=>{if(document.body.classList.contains('plan-etage'))planFit();});
 // ---------- le plan de l'étage ----------
 // Quatre bureaux pleine largeur autour d'un couloir central (vertical) et d'un couloir horizontal ; une porte au milieu de
 // chaque bureau, côté couloir horizontal. Dans un bureau, un tapis en U : le carton du ticket entre par la trappe du
@@ -596,7 +608,7 @@ function atWorker(k,x,y,dir,err,name,gear){
     pos:{x,y},tile:null,dir,moving:false,pose:'type',present:true,_st:{st:err?'error':'work'},phase:(x*7+y)%5,gear:gear!==undefined?gear:name==='Pompier'?'securite':'chantier'});
 }
 let AT_OFF=null;
-function atLayer(){if(!AT_OFF){AT_OFF=document.createElement('canvas');AT_OFF.width=AT_W;AT_OFF.height=AT_H;}const g=AT_OFF.getContext('2d');g.imageSmoothingEnabled=false;g.clearRect(0,0,AT_W,AT_H);return g;}
+function atLayer(){if(!AT_OFF||AT_OFF.height!==AT_H){AT_OFF=document.createElement('canvas');AT_OFF.width=AT_W;AT_OFF.height=AT_H;}const g=AT_OFF.getContext('2d');g.imageSmoothingEnabled=false;g.clearRect(0,0,AT_W,AT_H);return g;}
 function atDrawInto(g,c,now){const s=ctx;ctx=g;try{drawChar(c,now);}finally{ctx=s;}}
 let AT_HITS=[], AT_PICK=null, AT_LIT=[]; // zones cliquables de l'image ; agent, ticket en attente ou panne choisi (sinon ATSEL : un bureau) ;
 // AT_LIT : où sont les personnages qui marchent ou se promènent, et le boss, pour la lumière du soir (atNight)
@@ -1019,7 +1031,7 @@ function atWindows(now,xs){
 function floorNight(S,o,now){
   const d=daylight(T), dark=Math.max((1-d.k)*NIGHT_MAX,o.closed?NIGHT_MAX:0);if(dark<.02){S.lv=null;return;}
   const W_=AT_W/LQ, H_=AT_H/LQ, rooms=o.rooms||[], spots=o.spots||[], halo=rooms.length>0||spots.some(q=>q.c);
-  if(!S.cv)S.cv=[lightCanvas(W_,H_),lightCanvas(W_,H_),lightCanvas(AT_W,AT_H)];
+  if(!S.cv||S.cv[2].height!==AT_H)S.cv=[lightCanvas(W_,H_),lightCanvas(W_,H_),lightCanvas(AT_W,AT_H)];
   if(!S.lv||S.lv.length!==rooms.length)S.lv=rooms.map(z=>z[4]?1:0);
   const sig=(o.track||[]).map(q=>Math.round(q.x/4)+','+Math.round(q.y/4)).join(' ');
   if(now-S.at>200||!S.at||sig!==S.sig&&now-S.at>40){const dt=S.at?Math.min(1000,now-S.at):LIGHT_FADE;S.at=now;S.sig=sig;

diff --git a/page/src/styles.css b/page/src/styles.css
@@ -29,6 +29,8 @@ h1{font-size:22px;margin:0;letter-spacing:-.01em}
 .cv-wrap{overflow-x:auto;border-radius:8px;background:#22232b;position:relative}
 /* hors TV : le plan prend toute la colonne, sans dépasser la hauteur de l'écran (un étage et la barre du rejeu tiennent) */
 body:not(.tv) .cv-wrap>#cv{width:min(100%,calc((100vh - 150px) * var(--plan-ratio,2)));margin:0 auto}
+/* aux étages (-1 à 3e), le plan tient dans la fenêtre : la hauteur sous l'en-tête, mesurée (planFit, 68-atelier.js) */
+body.plan-etage:not(.tv) .cv-wrap>#cv{width:min(100%,calc((100vh - var(--plan-top,150px)) * var(--plan-ratio,2)))}
 /* loupe (44-loupe.js) : cadre posé sur le plan, fenêtre flottante en bas à gauche de l'écran (.right : à droite), liseré de
    la couleur de l'événement (--lc) */
 #loupecv{position:absolute;pointer-events:none;z-index:2}

diff --git a/tests/lisibilite.test.js b/tests/lisibilite.test.js
@@ -64,6 +64,14 @@ test('aux étages, aucun texte sous 11 px, sauf le décor', () => {
   assert.deepEqual(tooSmall(files, MIN('etages')), []);
 });
 
+// le -1 et le 2e (20 rangées) s'affichent plus petits que le 1er et le 3e (17) : 12 px, comme au RDC
+test('au -1 et au 2e, aucun texte sous 12 px, sauf le décor', () => {
+  assert.equal(MIN('-1'), 12);
+  assert.equal(MIN('2'), 12);
+  assert.deepEqual(tooSmall(['68-caserne.js'], MIN('-1')), []);
+  assert.deepEqual(tooSmall(['68-redaction.js', '68-revue.js'], MIN('2')), []);
+});
+
 test('le décor exempté existe encore (une entrée périmée de DECOR ne cache rien)', () => {
   const all = SRCS.map(f => read(f)).join('\n');
   for (const k of Object.keys(DECOR)) assert.match(all, new RegExp(`(?:function ${k}\\b|(?:const|let) ${k}\\s*=|furnType\\('${k}'|\\{const ${k}=)`), k);

diff --git a/tools/smoke.py b/tools/smoke.py
@@ -138,8 +138,9 @@ def wait_tab(port, wait=TAB_WAIT):
     return None
 
 
-# lisibilité (audit UX 2.3) : les minimums de tests/lisibilite.test.js (12 px au RDC, 11 aux étages) supposent ces échelles du plan
-# à 1440 × 900 ; un plan qui rétrécit les rendrait faux
+# lisibilité (audit UX 2.3) : les minimums de tests/lisibilite.test.js (12 px au RDC, au -1 et au 2e, 11 aux autres étages)
+# supposent ces échelles du plan à 1440 × 900 ; un plan qui rétrécit les rendrait faux. Une échelle propre à un étage (le -1 et le
+# 2e, 20 rangées, plus hauts que le 1er et le 3e) l'emporte sur celle des étages
 SCALE_JS = ("(async()=>{const o={},w=ms=>new Promise(r=>setTimeout(r,ms));for(const f of [0,-1,1,2,3]){setFloor(f);if(FLOOR!==f)continue;"
             "await w(300);const c=document.getElementById('cv');o[f]=c.getBoundingClientRect().width/c.width;}setFloor(0);return JSON.stringify(o);})()")
 
@@ -152,7 +153,7 @@ def lisi_checks(call, width, height):
     r = call("Runtime.evaluate", returnByValue=True, awaitPromise=True, expression=SCALE_JS)
     got = json.loads((r.get("result") or {}).get("value") or "{}")
     for f, k in got.items():
-        ref = ech["rdc" if f == "0" else "etages"]
+        ref = ech["rdc"] if f == "0" else ech.get(f, ech["etages"])
         check(k >= ref - 0.001, f"plan {'du RDC' if f == '0' else 'de l’étage ' + f} à {fw} × {fh} : ×{k:.3f} (au moins ×{ref})")
     check("0" in got, "échelles du plan mesurées")
     call("Emulation.setDeviceMetricsOverride", width=width, height=height, deviceScaleFactor=1, mobile=False)

diff --git a/guide/fonctionnalites/25-caserne.md b/guide/fonctionnalites/25-caserne.md
@@ -20,8 +20,8 @@ Le bouton « 🚒 -1 » (la caserne Support, au survol) apparaît avant « 🏢 
 - **Une intervention démarre** : le rideau de la baie se lève et le camion sort du fond de la baie, gyrophares allumés. Les pompiers descendent la barre un par un, puis courent à leur place par l'allée sous les baies, sans traverser une baie ni un collègue : le premier rang d'abord, de gauche à droite, puis le second. Leur étiquette apparaît quand ils arrivent ; le tuyau se déroule depuis le camion quand toute l'équipe est là.
 - **Le camion rentre** quand la réponse est postée dans Teams : le tuyau s'enroule, le camion rentre dans sa baie et le rideau se ferme sur lui. L'équipe qui a travaillé va prendre un café à la machine de la salle de garde, puis remonte la barre. Un fil traité autrement (pris par un collègue, ignoré) ferme aussi sa baie, et l'équipe remonte sans café.
 - **Rien n'apparaît ni ne disparaît d'un coup.** En arrivant à l'étage, rien ne se rejoue : les équipes sont déjà devant leur camion. Seule une intervention partie il y a moins de 2 minutes, pendant que tu regardais un autre étage, joue son arrivée, une seule fois : en revenant ensuite, l'équipe est déjà en place, et la loupe ne la présente pas comme nouvelle. Si le système demande moins d'animations, tout est posé directement, sans arrivée ni départ.
-- **Le bureau du chef de centre**, en bas : le capitaine s'y tient de face, derrière un grand bureau en bois (plaque « CHEF DE CENTRE », fauteuil rouge, radio verte aux heures de bureau, casque posé, corbeille des appels à prendre, cliquable). À côté, le **tableau de garde** sur pied : un voyant par baie (bleu : au travail, jaune : t'attend, rouge : en panne, vert : en route). Dessous, la pile des appels à prendre (les nouveaux fils) et le compteur des feux éteints aujourd'hui (réponses postées). Quand une réponse attend, il quitte son bureau par l'arrière pour aller à la vanne ; le bureau reste.
-- **La salle de garde**, à droite : le tableau des interventions (une ligne par baie, les appels à prendre, le voyant qui clignote quand un appel attend), les casiers, la machine à café, la garde qui joue aux cartes, les lits de camp. Contre le mur de droite, la barre de pompier est le seul accès aux autres étages (« ⇅ RDC · 1er »). Au mur, entre la baie 3 et la salle de garde, le **gyrophare** tourne et balaie le sous-sol tant qu'un appel attend d'être pris ou qu'une intervention est en cours.
+- **Le bureau du chef de centre**, au milieu de la salle de garde, entre la partie de cartes et les lits de camp : le capitaine s'y tient de face, derrière un grand bureau en bois (plaque « CHEF DE CENTRE », fauteuil rouge, radio verte aux heures de bureau, casque posé, corbeille des appels à prendre, cliquable). Tout en bas, sous les lits de camp, la pile des appels à prendre (les nouveaux fils) et le compteur des feux éteints aujourd'hui (réponses postées). Quand une réponse attend, il passe derrière son bureau, longe le muret jusqu'à l'allée et va à la vanne ; le bureau reste.
+- **La salle de garde**, à droite : le tableau des interventions (une ligne par baie, les appels à prendre, le voyant qui clignote quand un appel attend), les casiers, la machine à café, la garde qui joue aux cartes sous les casiers, le bureau du chef de centre, les lits de camp. Contre le mur de droite, la barre de pompier est le seul accès aux autres étages (« ⇅ RDC · 1er »). Au mur, entre la baie 3 et la salle de garde, le **gyrophare** tourne et balaie le sous-sol tant qu'un appel attend d'être pris ou qu'une intervention est en cours.
 - **Le soir et le week-end**, la garde reste : la caserne passe en veilleuse, comme le RDC la nuit : chaque baie en intervention s'allume comme une pièce, avec ses plafonniers, et chaque pompier au travail a sa lampe ; le capitaine garde sa lumière, qui le suit jusqu'à la vanne ; la barre et la veilleuse des lits de camp restent éclairées, et la garde dort, prête à partir. Les interventions continuent.
 
 ![La caserne le soir : la garde dort sur les lits de camp](../img/caserne-calme.png)
